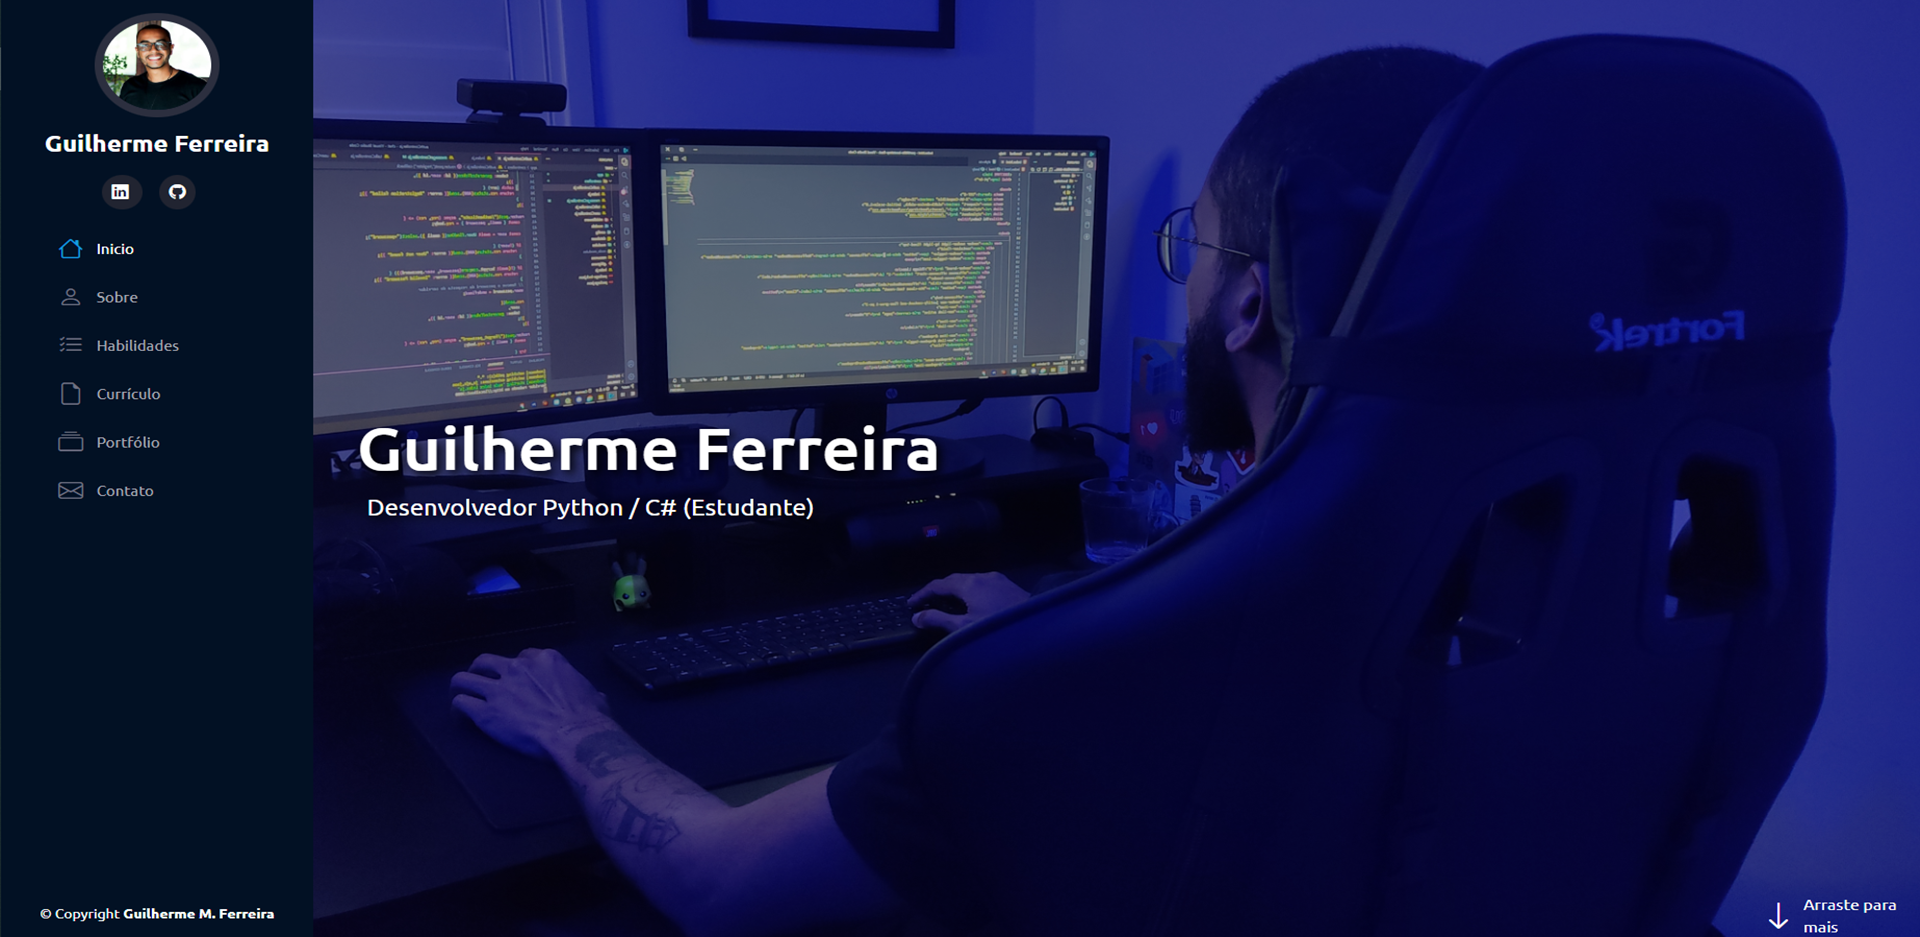
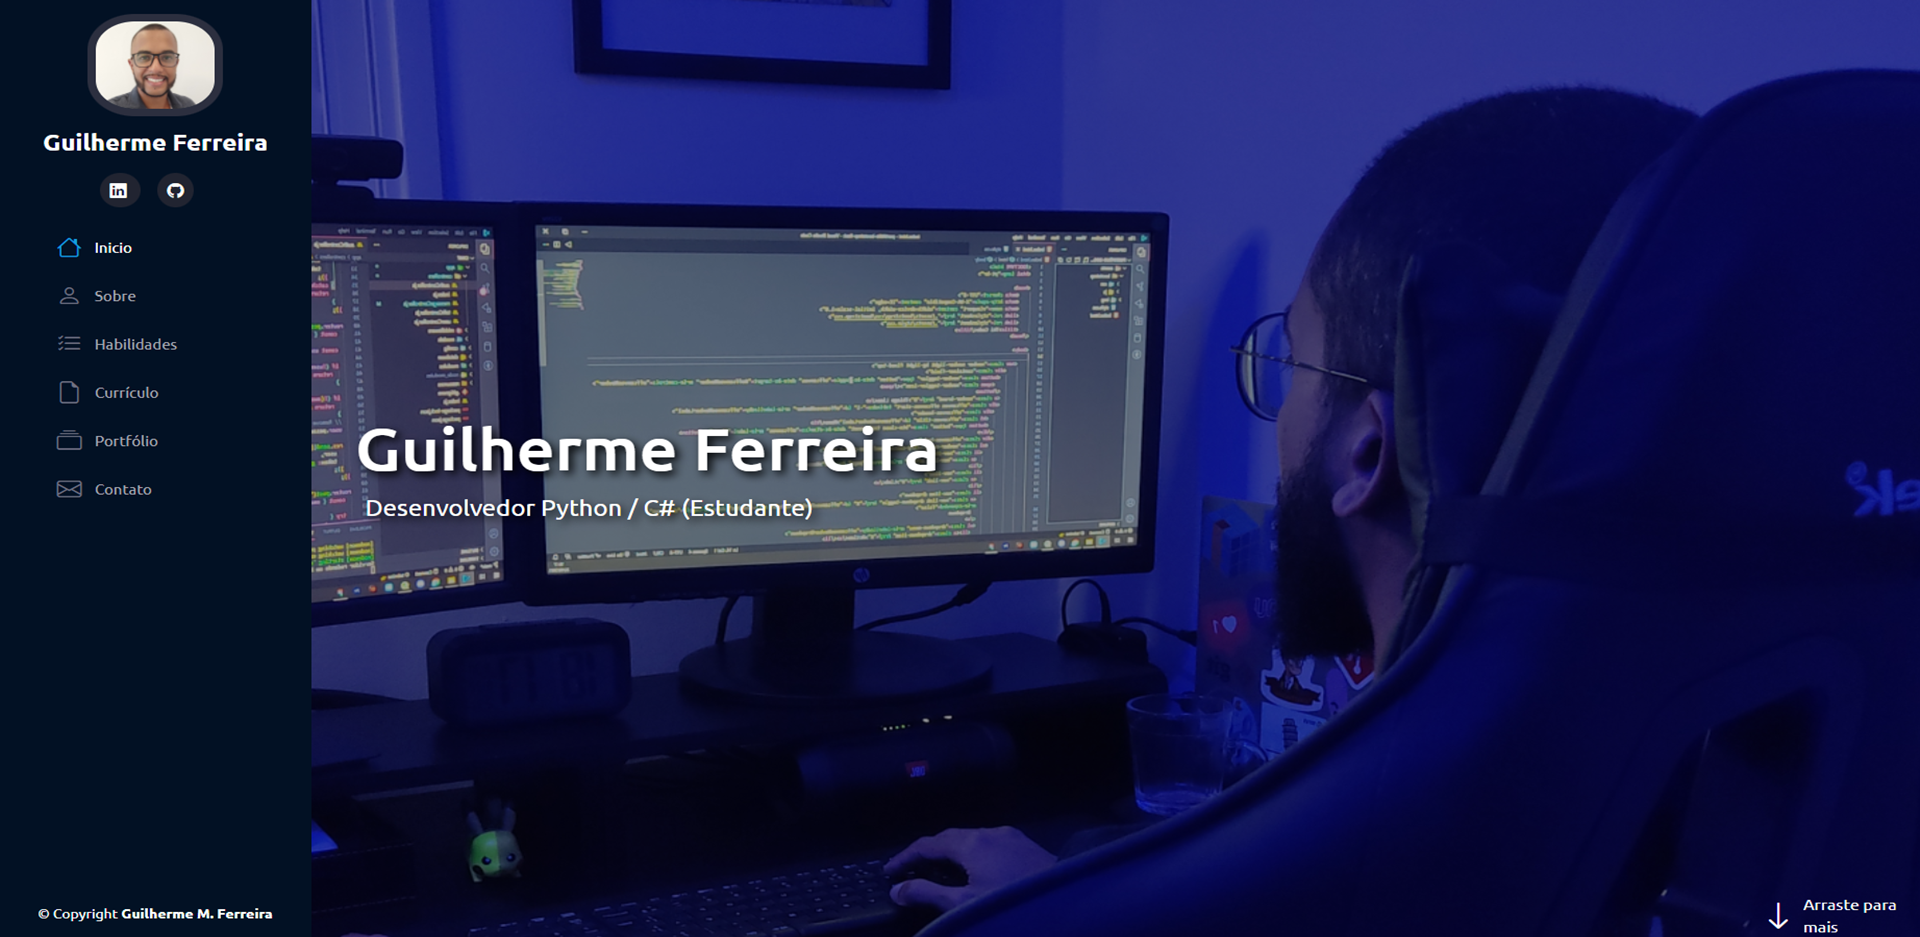
Ajuste das imagens e correção ortográfica

diff --git a/templates/index.html b/templates/index.html
@@ -18,7 +18,7 @@
 
     <aside id="header">
         <section class="profile">
-            <img src="../static/images/Guilherme_rec.jpg" alt="Foto do Guilherme">
+            <img src="../static/images/IMG_20230307_145106_rec.jpg" alt="Foto do Guilherme">
             <h1>Guilherme Ferreira</h1>
             <div class="social-links mt-4 text-center">
                 <a target="_blank" href="https://www.linkedin.com/in/guimontenegro">
@@ -91,7 +91,7 @@
 
             <div class="row mt-4">
                 <div class="col-md-4">
-                    <img class="img-fluid shadow" src="../static/images/Guilherme.jpg" alt="Foto do Guilherme"
+                    <img class="img-fluid rounded float-start img-thumbnail shadow" src="../static/images/IMG_20230307_145307_p.jpg" alt="Foto do Guilherme"
                         data-anime="left">
                 </div>
                 <div class="col-md-8" data-anime="right">
@@ -244,7 +244,7 @@
         <section class="mt-5 cv" id="curriculo">
 
             <div class="container pb-5">
-                <h2 class="pt-3 pb-4">Currículo reduzido</h2>
+                <h2 class="pt-3 pb-4">Currículo resumido</h2>
 
                 <div class="row">
 
@@ -329,8 +329,8 @@
                             <p>Curso com diversos conteúdos relacionados à linguagem de programação Python. Com ele foi
                                 possível adquirir uma excelente base sobre as principais funcionalidades do Python na
                                 atualidade, como por exemplo: <br>
-                                • Orientação a objetos; <br>
-                                • Análise dados; <br>
+                                • Programação Orientada a Objetos; <br>
+                                • Análise de dados; <br>
                                 • Web Scraping; <br>
                                 • Desenvolvimento Web (Flask e Django); <br>
                                 • Automatização de tarefas; <br>
@@ -366,12 +366,12 @@
                             aria-label="Slide 2"></button>
                     </div>
                     <div class="carousel-inner">
-                        <div class="carousel-item active" data-bs-interval="5000">
+                        <div class="carousel-item active" data-bs-interval="10000">
 
                             <div class="row row-cols-1 row-cols-md-3 g-4">
                                 <div class="col">
                                     <div class="card">
-                                        <img src="../static/images/ComunidadeAA.PNG" class="card-img-top"
+                                        <img src="../static/images/Comunidade.PNG" class="card-img-top"
                                             alt="Print de posts do site">
                                         <div class="card-body">
                                             <h5 class="card-title">Site Comunidade</h5>
@@ -399,7 +399,7 @@
                                             <h5 class="card-title">Portfólio Pessoal</h5>
                                             <p class="card-text">Projeto Python criado com Flask, Bootstrap, HTML, CSS e
                                                 JavaScript
-                                                deploy realizado no Heroku
+                                                deploy realizado no Heroku.
                                                 <br>
                                                 <br>
                                                 <br>
@@ -434,7 +434,7 @@
 
                         </div>
 
-                        <div class="carousel-item" data-bs-interval="5000">
+                        <div class="carousel-item" data-bs-interval="3000">
                             <div class="row row-cols-1 row-cols-md-3 g-4">
                                 <div class="col">
                                     <div class="card h-100">

diff --git a/static/style.css b/static/style.css
@@ -22,9 +22,10 @@ html, body{
 #header .profile img {
     margin: 15px auto;
     display: block;
-    width: 120px;
+    width: 130px;
+    height: 110px;
     border: 8px solid #2c2f3f;
-    border-radius: 50%;
+    border-radius: 35%;
 }
 
 #header .profile h1 {
@@ -91,7 +92,7 @@ html, body{
 }
 
 section#inicio {
-    background-image: url("./images/bannerPortifolio.png");
+    background-image: url("./images/bannerPortifolio_rec.png");
     background-repeat: no-repeat;
     background-size: cover;
     background-attachment: fixed;
